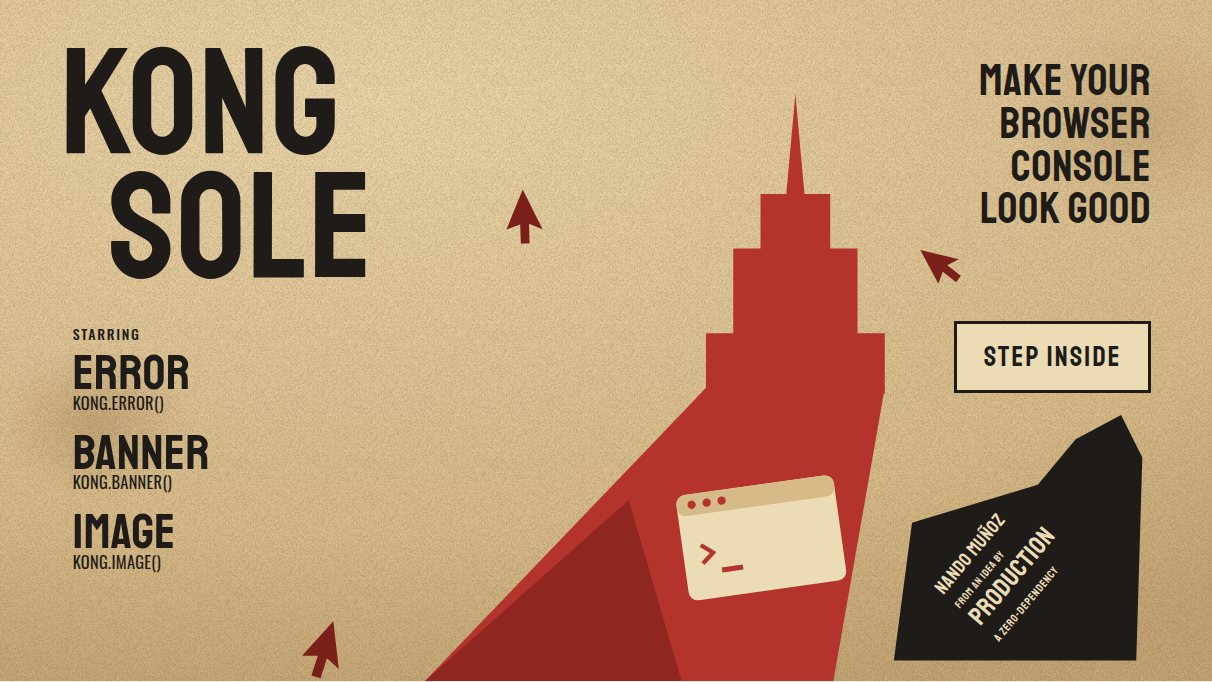
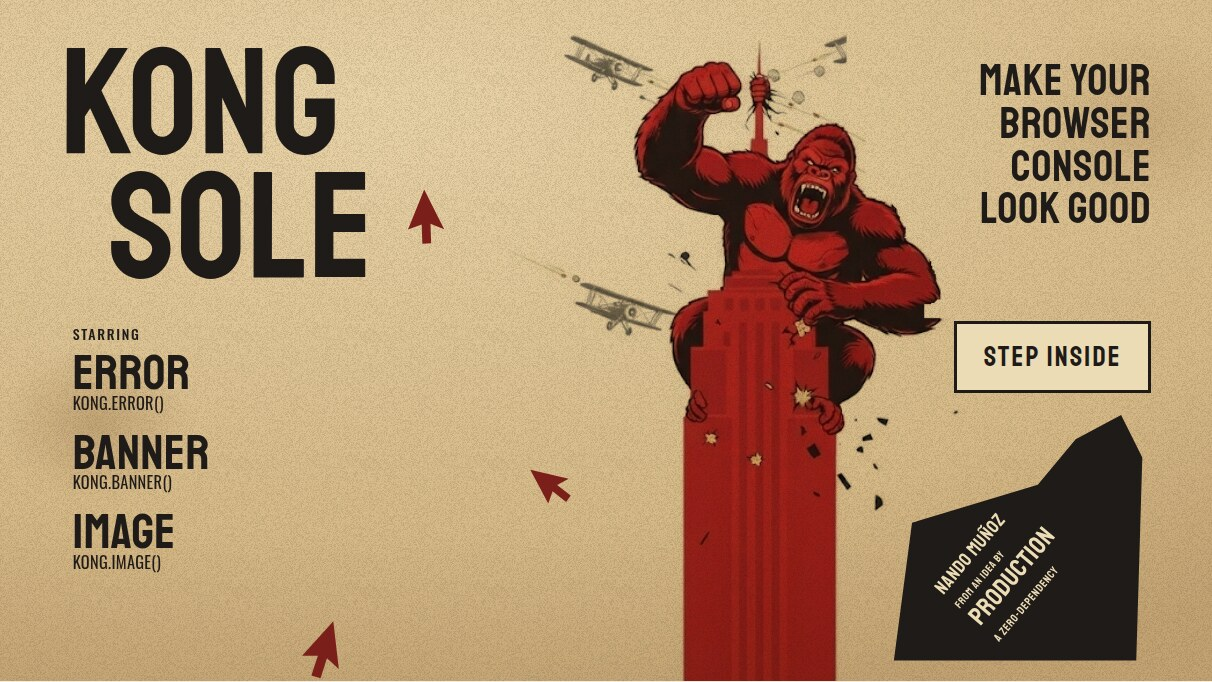
feat(landing): use the Kong on tower illustration in the poster
Replaces the gorilla silhouette and beam with a multiply-blended illustration so the paper texture shows through, and refreshes the README banner.

diff --git a/index.html b/index.html
@@ -243,6 +243,8 @@
 </head>
 
 <body>
+  <svg width="0" height="0" style="position:absolute" aria-hidden="true" focusable="false"><defs>
+  </defs></svg>
   <div class="wrap">
     <div class="bar">
       <a class="logo" href="#top">KONG<span>.SOLE</span></a>
@@ -265,23 +267,14 @@
           <defs>
             <path id="cur" d="M0 0 L0 22 L5.5 17 L9.5 26 L13.5 24 L9.5 15 L17 15Z" />
           </defs>
-          <!-- beam -->
-          <polygon fill="#b4332c" points="366,428 484,428 452,950 40,950" />
-          <polygon fill="#8f2620" points="40,950 235,700 330,950" />
-          <!-- deco tower -->
-          <path fill="#b4332c" d="M425 232 L431 298 H448 V334 H466 V390 H484 V430 H366 V390 H384 V334 H402 V298 H419Z" />
-          <!-- console window silhouette -->
-          <g transform="rotate(-8 370 650)">
-            <rect x="296" y="596" width="150" height="100" rx="8" fill="#ecdcb6" />
-            <rect x="296" y="596" width="150" height="20" rx="8" fill="#d6ba88" />
-            <circle cx="310" cy="606" r="4" fill="#b4332c" /><circle cx="324" cy="606" r="4" fill="#b4332c" /><circle cx="338" cy="606" r="4" fill="#b4332c" />
-            <text x="310" y="672" font-size="42" fill="#b4332c" font-family="Staatliches, Impact, sans-serif">&gt;_</text>
-          </g>
+          <!-- Kong on the tower (printed look: multiply lets the paper show through) -->
+          <image href="assets/kong-tower.webp" x="116" y="270" width="485" height="680" preserveAspectRatio="xMidYMax meet" style="mix-blend-mode:multiply" />
           <!-- flying cursors -->
-          <use href="#cur" fill="#7a1f1a" transform="translate(255 300) rotate(22) scale(1.9)" />
-          <use href="#cur" fill="#7a1f1a" transform="translate(528 440) rotate(-28) scale(1.7)" />
-          <use href="#cur" fill="#7a1f1a" transform="translate(92 548) rotate(42) scale(2.1)" />
+          <use href="#cur" fill="#7a1f1a" transform="translate(610 290) rotate(22) scale(1.9)" />
+          <use href="#cur" fill="#7a1f1a" transform="translate(240 770) rotate(-28) scale(1.7)" />
+          <use href="#cur" fill="#7a1f1a" transform="translate(50 500) rotate(42) scale(2.1)" />
           <!-- black slab -->
+          <g transform="translate(656 922) scale(.85) translate(-656 -922)">
           <path fill="#1f1b18" d="M648 632 L664 672 L656 922 L372 922 L392 748 L560 706 L604 662Z" />
           <g transform="translate(496 906) rotate(-52)">
             <text class="credit" x="0" y="-4" font-size="13" letter-spacing="1">A zero-dependency</text>
@@ -289,27 +282,16 @@
             <text class="credit" x="0" y="-66" font-size="12" letter-spacing="1">From an idea by</text>
             <text class="credit" x="0" y="-92" font-size="22" letter-spacing="1">Nando Muñoz</text>
           </g>
+          </g>
         </svg>
 
         <svg class="art land" viewBox="0 0 1600 900" preserveAspectRatio="xMidYMid slice" aria-hidden="true">
           <defs><path id="cur2" d="M0 0 L0 22 L5.5 17 L9.5 26 L13.5 24 L9.5 15 L17 15Z" /></defs>
-          <!-- beam leaning down-left from the tower -->
-          <polygon fill="#b4332c" points="932,512 1168,512 1100,900 560,900" />
-          <polygon fill="#8f2620" points="560,900 830,660 900,900" />
-          <!-- deco tower (same shape as the portrait one, scaled up) -->
-          <g transform="translate(1050 520) scale(2) translate(-425 -430)">
-            <path fill="#b4332c" d="M425 232 L431 298 H448 V334 H466 V390 H484 V430 H366 V390 H384 V334 H402 V298 H419Z" />
-          </g>
-          <!-- console window silhouette -->
-          <g transform="rotate(-8 1005 710)">
-            <rect x="900" y="640" width="210" height="140" rx="12" fill="#ecdcb6" />
-            <rect x="900" y="640" width="210" height="28" rx="12" fill="#d6ba88" />
-            <circle cx="920" cy="654" r="5.5" fill="#b4332c" /><circle cx="940" cy="654" r="5.5" fill="#b4332c" /><circle cx="960" cy="654" r="5.5" fill="#b4332c" />
-            <text x="920" y="742" font-size="60" fill="#b4332c" font-family="Staatliches, Impact, sans-serif">&gt;_</text>
-          </g>
+          <!-- Kong on the tower (printed look: multiply lets the paper show through) -->
+          <image href="assets/kong-tower.webp" x="671" y="20" width="627" height="880" preserveAspectRatio="xMidYMax meet" style="mix-blend-mode:multiply" />
           <!-- flying cursors -->
-          <use href="#cur2" fill="#7a1f1a" transform="translate(690 250) rotate(22) scale(2.6)" />
-          <use href="#cur2" fill="#7a1f1a" transform="translate(1215 330) rotate(-28) scale(2.3)" />
+          <use href="#cur2" fill="#7a1f1a" transform="translate(560 250) rotate(22) scale(2.6)" />
+          <use href="#cur2" fill="#7a1f1a" transform="translate(700 620) rotate(-28) scale(2.3)" />
           <use href="#cur2" fill="#7a1f1a" transform="translate(440 820) rotate(42) scale(2.8)" />
           <!-- black slab with the credits -->
           <path fill="#1f1b18" d="M1480 548 L1508 604 L1500 872 L1180 872 L1204 690 L1370 640 L1420 580Z" />
